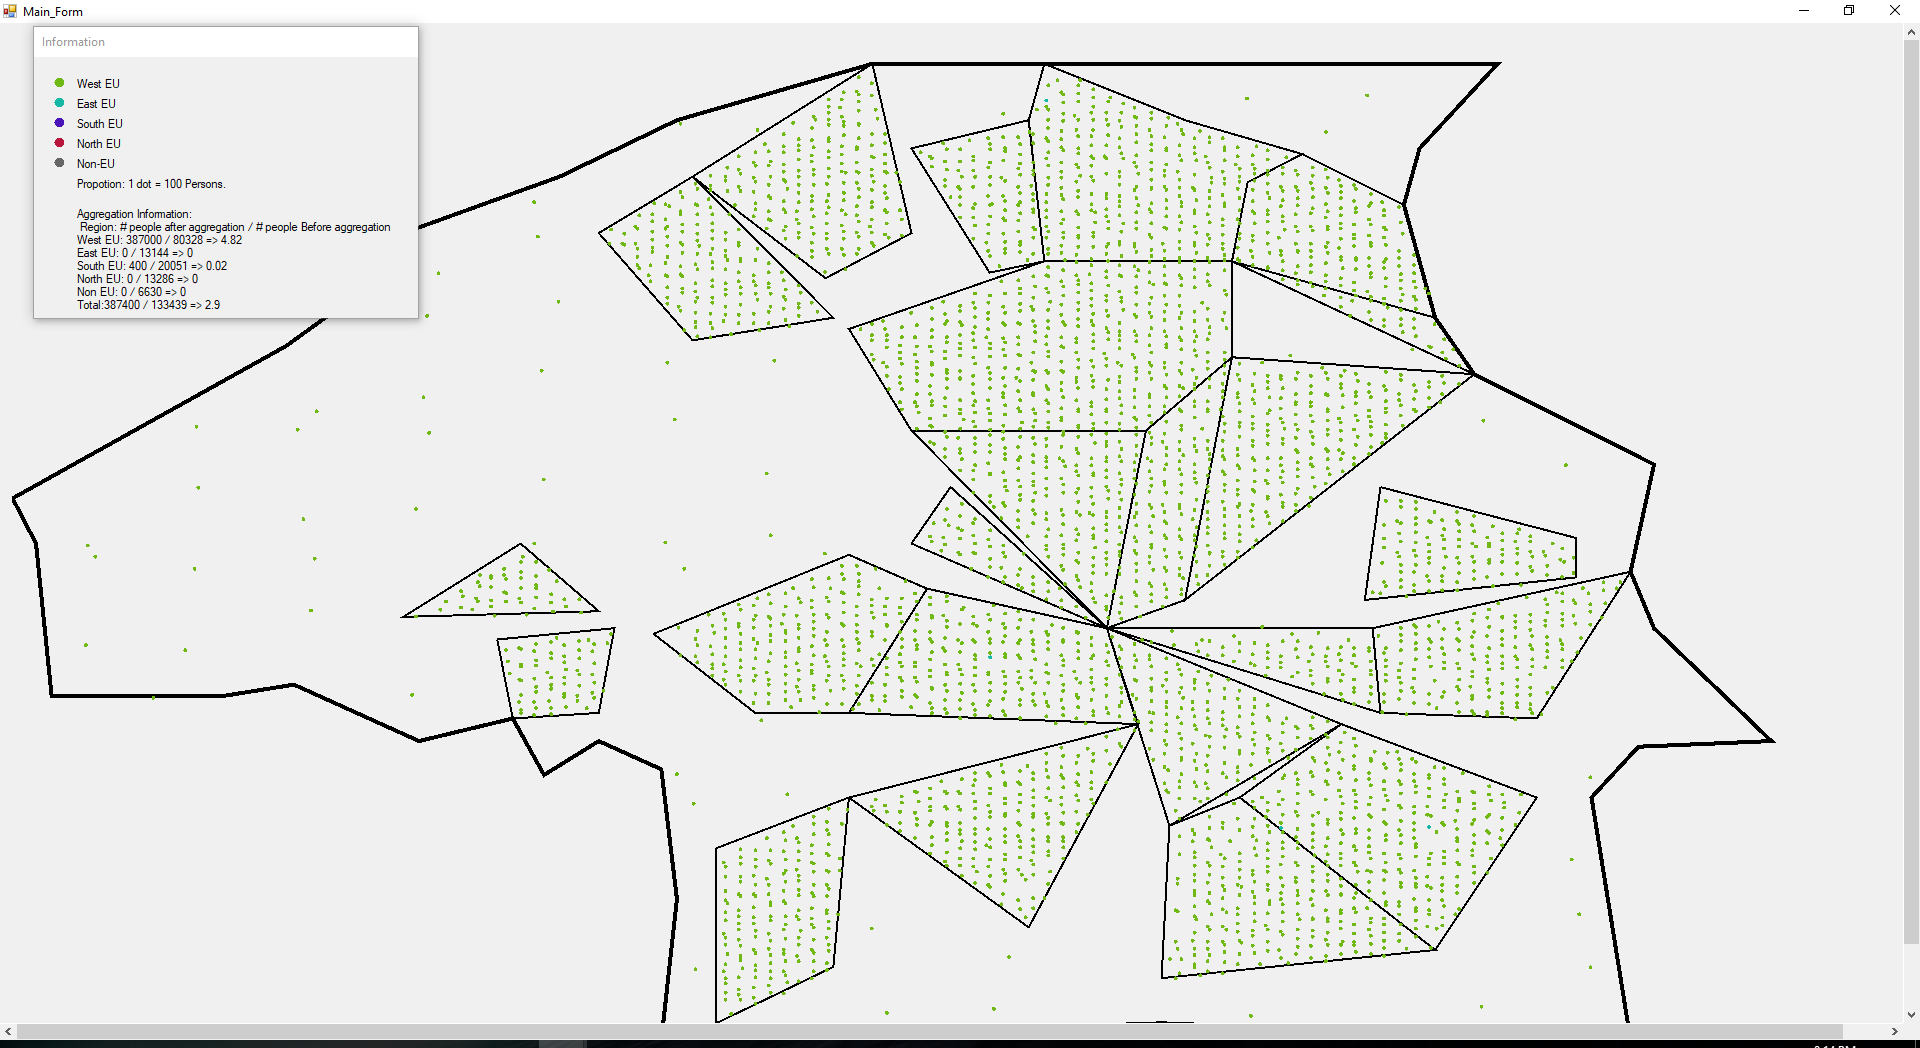
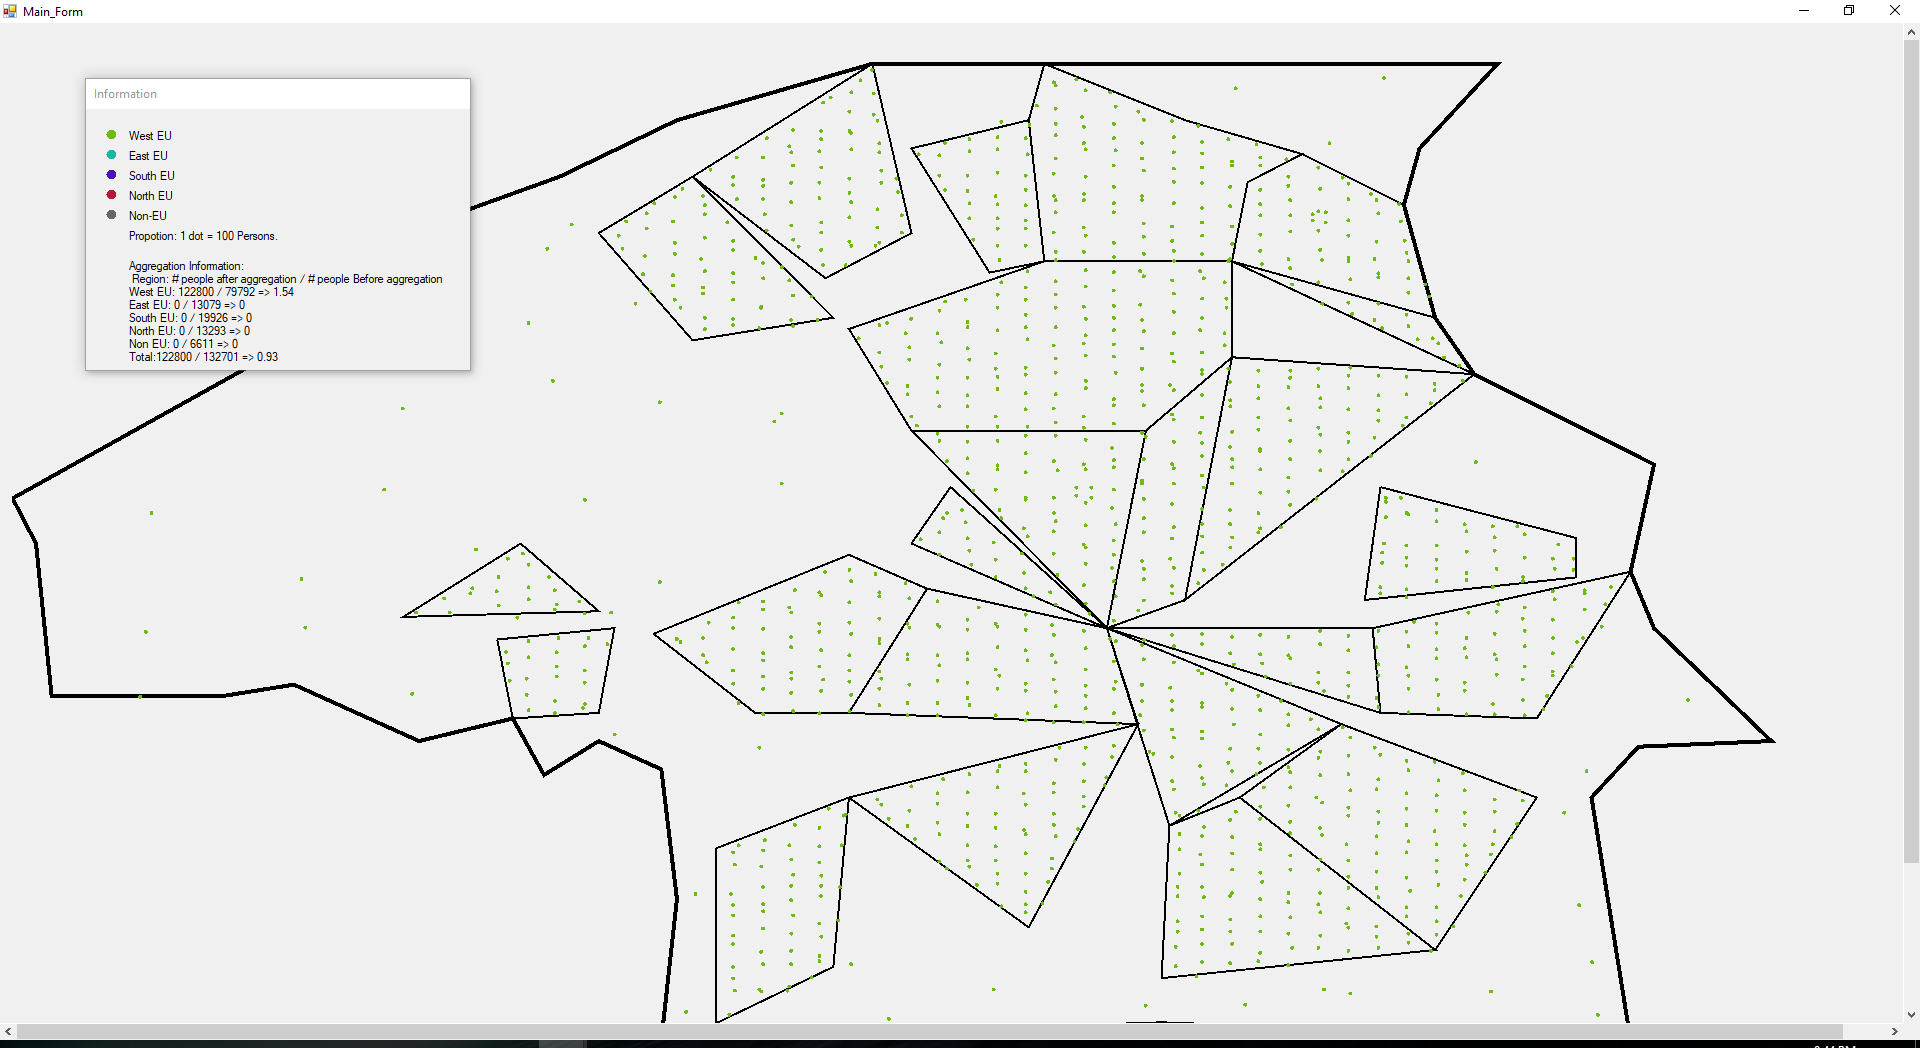
new  threshold

diff --git a/GA_Group7_DotMap/DotDistrubutor.cs b/GA_Group7_DotMap/DotDistrubutor.cs
@@ -176,7 +176,7 @@ namespace GA_Group7_DotMap
         // until the number of people in that area meets its criteria (less than NumberOfDotsPerGroup).
         private void SplitDotsIntoSmallGroups(List<Dot> dots, double x1, double x2, double y1, double y2)
         {
-            if (dots.Count > NumberOfDotsPerGroup)
+            if (dots.Count > NumberOfDotsPerGroup * 1.5) // Let the tresh hold become 1.5 * NumberOfDotsPerGroup
             {
                 List<List<Dot>> dotsArray = new List<List<Dot>>();
                 for (int i = 0; i < 4; i++)
